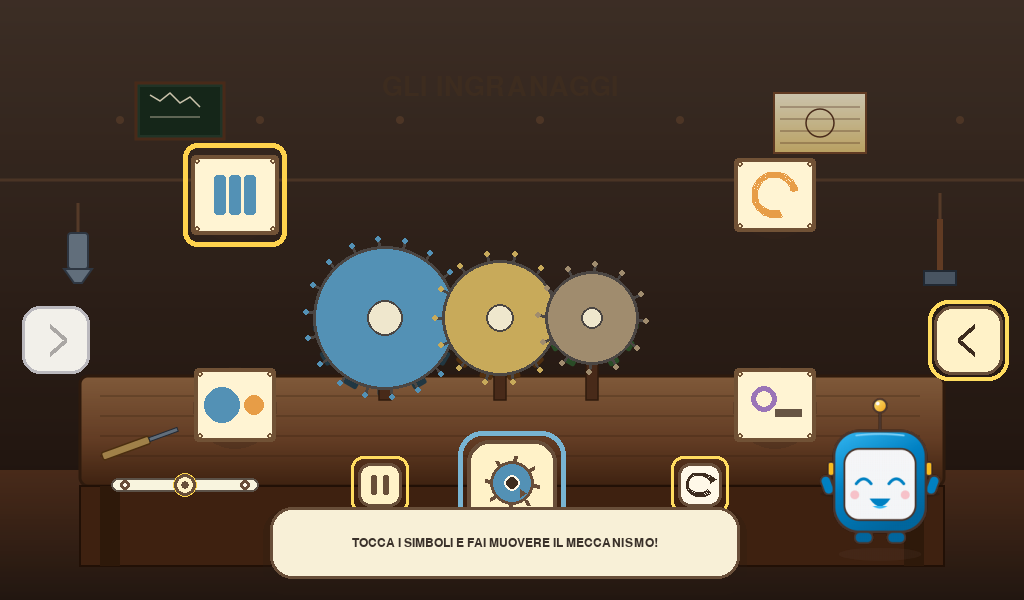
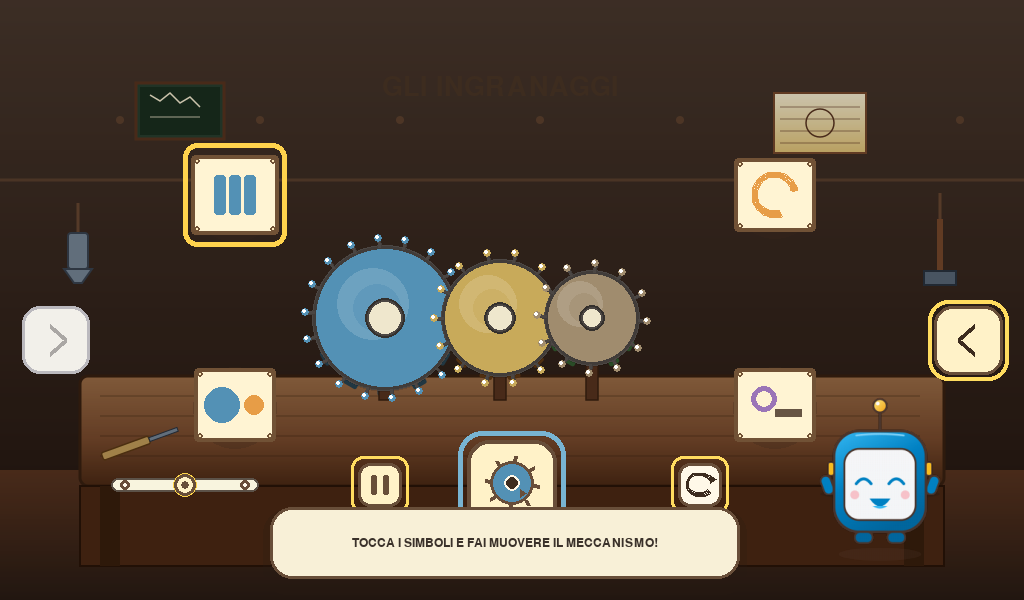
Encyclopedia: iterate machines.gears - gear bevel, shadow, highlight, hub depth
Second batch per iterative graphics triage. Gears now have drop shadow, radial highlight, beveled teeth, hub depth. Workbench still flat - next will add wood grain + depth.

diff --git a/activities/enciclopedia_greia/pages/gears.py b/activities/enciclopedia_greia/pages/gears.py
@@ -379,21 +379,35 @@ class GearsPage(EncyclopediaPage):
         color: tuple[int, int, int],
     ) -> None:
         cx, cy = center
-        # Body
+        # Soft drop shadow
+        shadow = pygame.Surface((radius * 2 + 12, radius * 2 + 12), pygame.SRCALPHA)
+        pygame.draw.circle(shadow, (0, 0, 0, 28), (radius + 6, radius + 8), radius)
+        surface.blit(shadow, (cx - radius - 6, cy - radius - 6))
+        # Body with radial highlight
+        pygame.draw.circle(surface, (75, 70, 67), center, radius + 1)
         pygame.draw.circle(surface, color, center, radius)
-        pygame.draw.circle(surface, (75, 70, 67), center, radius, 3)
-        pygame.draw.circle(surface, (239, 231, 205), center, max(8, radius // 4))
-        pygame.draw.circle(surface, (75, 70, 67), center, max(8, radius // 4), 2)
-        # Teeth
+        # Highlight quadrant
+        hl = pygame.Surface((radius * 2, radius * 2), pygame.SRCALPHA)
+        pygame.draw.circle(hl, (255, 255, 255, 38), (radius - 12, radius - 14), radius // 2)
+        pygame.draw.circle(hl, (255, 255, 255, 18), (radius - 8, radius - 10), radius // 3)
+        surface.blit(hl, (cx - radius, cy - radius))
+        pygame.draw.circle(surface, (65, 60, 57), center, radius, 3)
+        # Hub
+        hub_r = max(8, radius // 4)
+        pygame.draw.circle(surface, (52, 48, 45), center, hub_r + 2)
+        pygame.draw.circle(surface, (239, 231, 205), center, hub_r)
+        pygame.draw.circle(surface, (75, 70, 67), center, hub_r, 2)
+        # Teeth with bevel
         for i in range(teeth):
             theta = angle + i * math.tau / teeth
             x1 = cx + int(math.cos(theta) * radius)
             y1 = cy + int(math.sin(theta) * radius)
-            x2 = cx + int(math.cos(theta) * (radius + 8))
-            y2 = cy + int(math.sin(theta) * (radius + 8))
+            x2 = cx + int(math.cos(theta) * (radius + 9))
+            y2 = cy + int(math.sin(theta) * (radius + 9))
+            pygame.draw.line(surface, (65, 60, 57), (x1, y1), (x2, y2), 4)
             pygame.draw.line(surface, (75, 70, 67), (x1, y1), (x2, y2), 3)
-            # Tooth cap small rect
-            pygame.draw.circle(surface, color, (x2, y2), 3)
+            pygame.draw.circle(surface, color, (x2, y2), 4)
+            pygame.draw.circle(surface, (255, 255, 255, 30), (x2 - 1, y2 - 1), 2)
 
     def _recent(self, discovery_id: str) -> bool:
         ages = {
